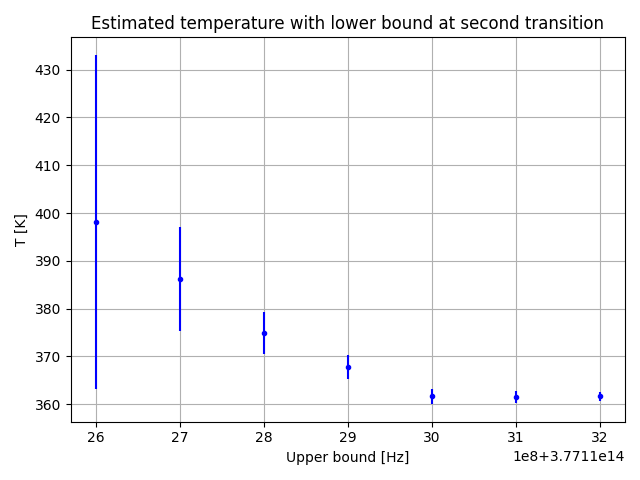
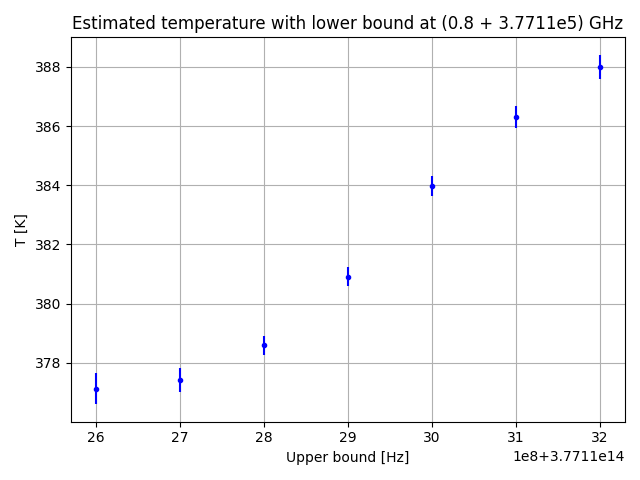
adjusting temperature range graph

diff --git a/shoulder_range.py b/shoulder_range.py
@@ -90,7 +90,7 @@ dT_list_up = []
 bound_list_up = (np.arange(2.6, 3.3, 0.1) + 3.7711e5) * 1e9
 
 for ub in bound_list_up:
-    lower_mask = f_peaks[1]
+    lower_mask = (1.8 + 3.7711e5) * 1e9
     upper_mask = ub
 
     mask = (scaled_frequencies >= ((lower_mask - x_min) / scale_factor)) & (
@@ -120,8 +120,8 @@ plt.figure()
 plt.errorbar(x=bound_list_up, y=T_list_up, yerr=dT_list_up, fmt='.', color='blue', ls='')
 plt.xlabel('Upper bound [Hz]')
 plt.ylabel('T [K]')
-plt.title('Estimated temperature with lower bound at second transition')
+plt.title('Estimated temperature with lower bound at (1.8 + 3.7711e5) GHz')
 plt.grid()
 plt.tight_layout()
-plt.savefig(f'data_temp/figures/temperature/upper_bound_sweep_2.png')
+plt.savefig(f'data_temp/figures/temperature/upper_bound_sweep_3.png')
 plt.close()

diff --git a/shoulder_scaled.py b/shoulder_scaled.py
@@ -18,8 +18,8 @@ rb_mass = 1.67e-27 * 87   # kg
 c = 3e8
 term2 = kb / (c**2 * rb_mass)
 
-lower_mask = (2.2 + 3.7711e5) * 1e9
-upper_mask = (2.9 + 3.7711e5) * 1e9
+lower_mask = (0.8 + 3.7711e5) * 1e9
+upper_mask = (3.1 + 3.7711e5) * 1e9
 
 # calib_correction = np.array([75, 251]) * 1e6
 
